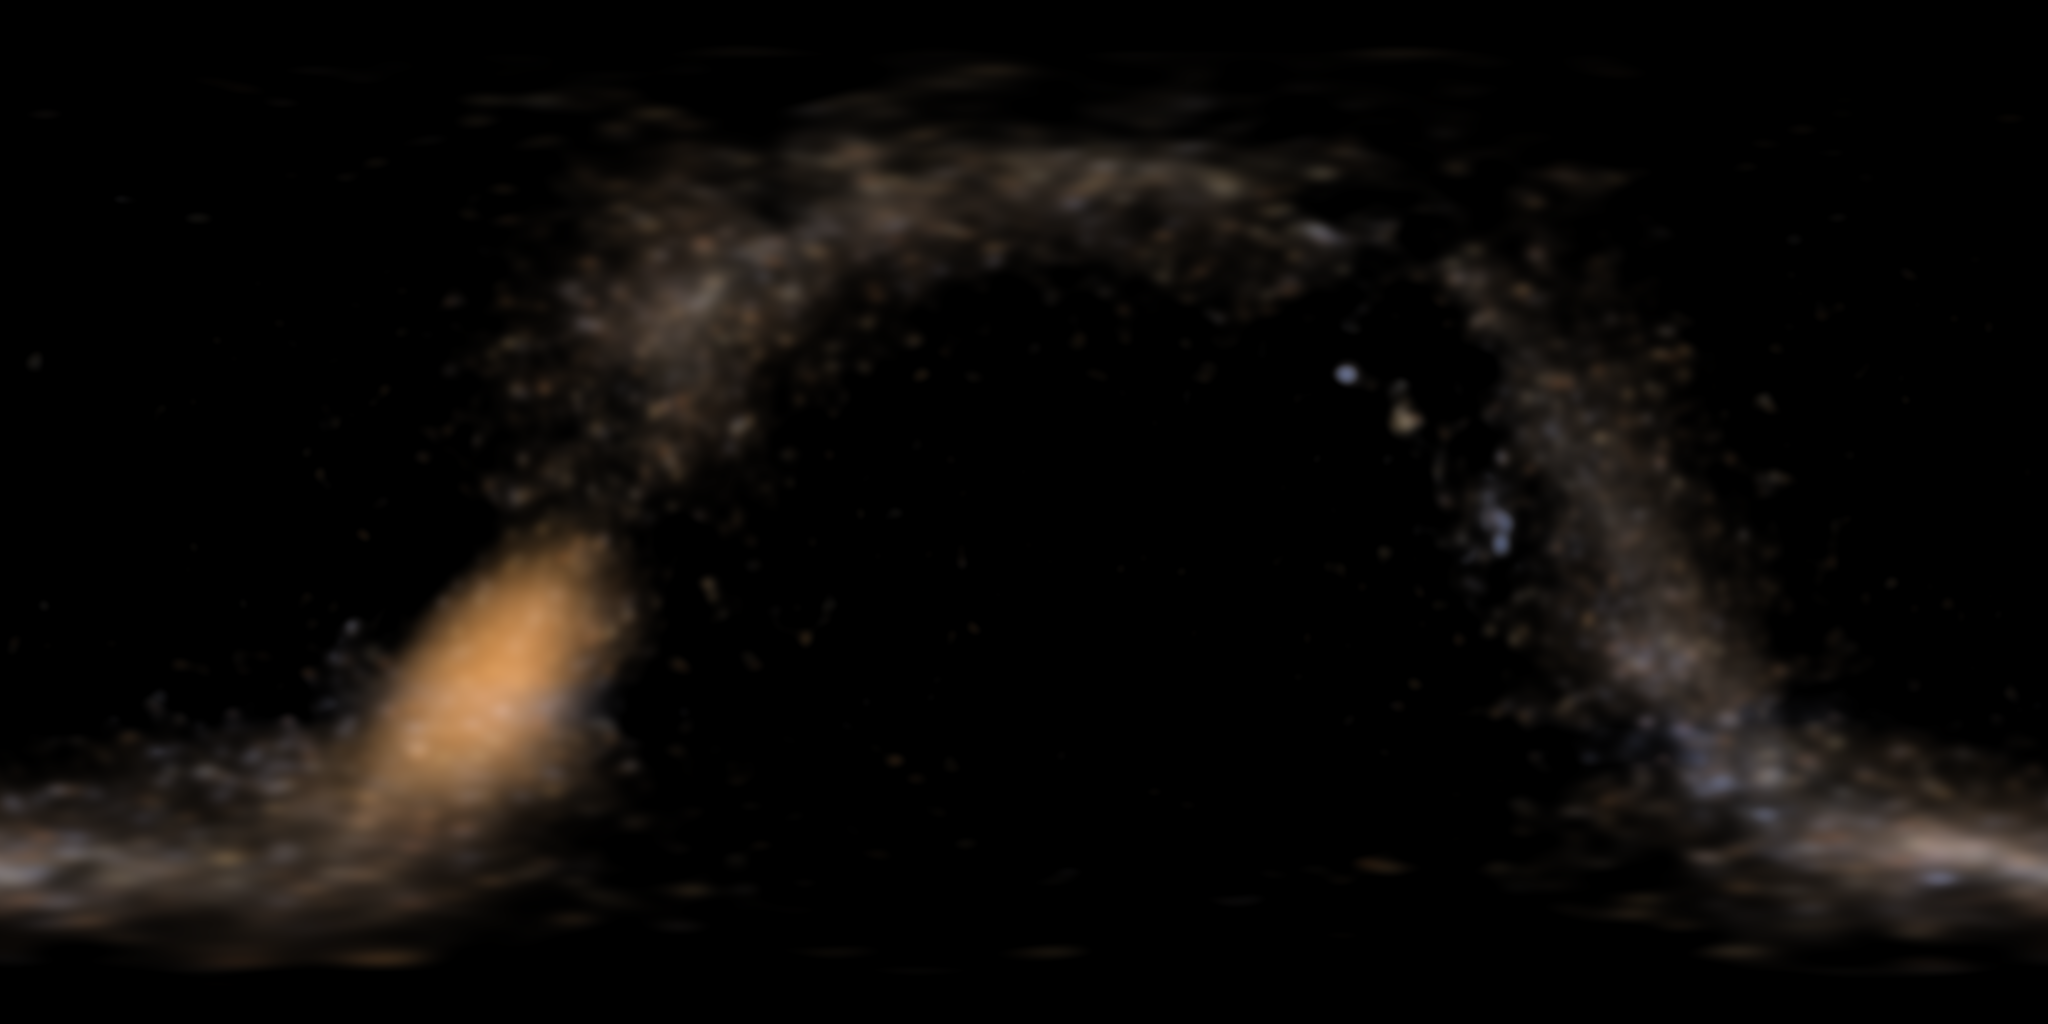
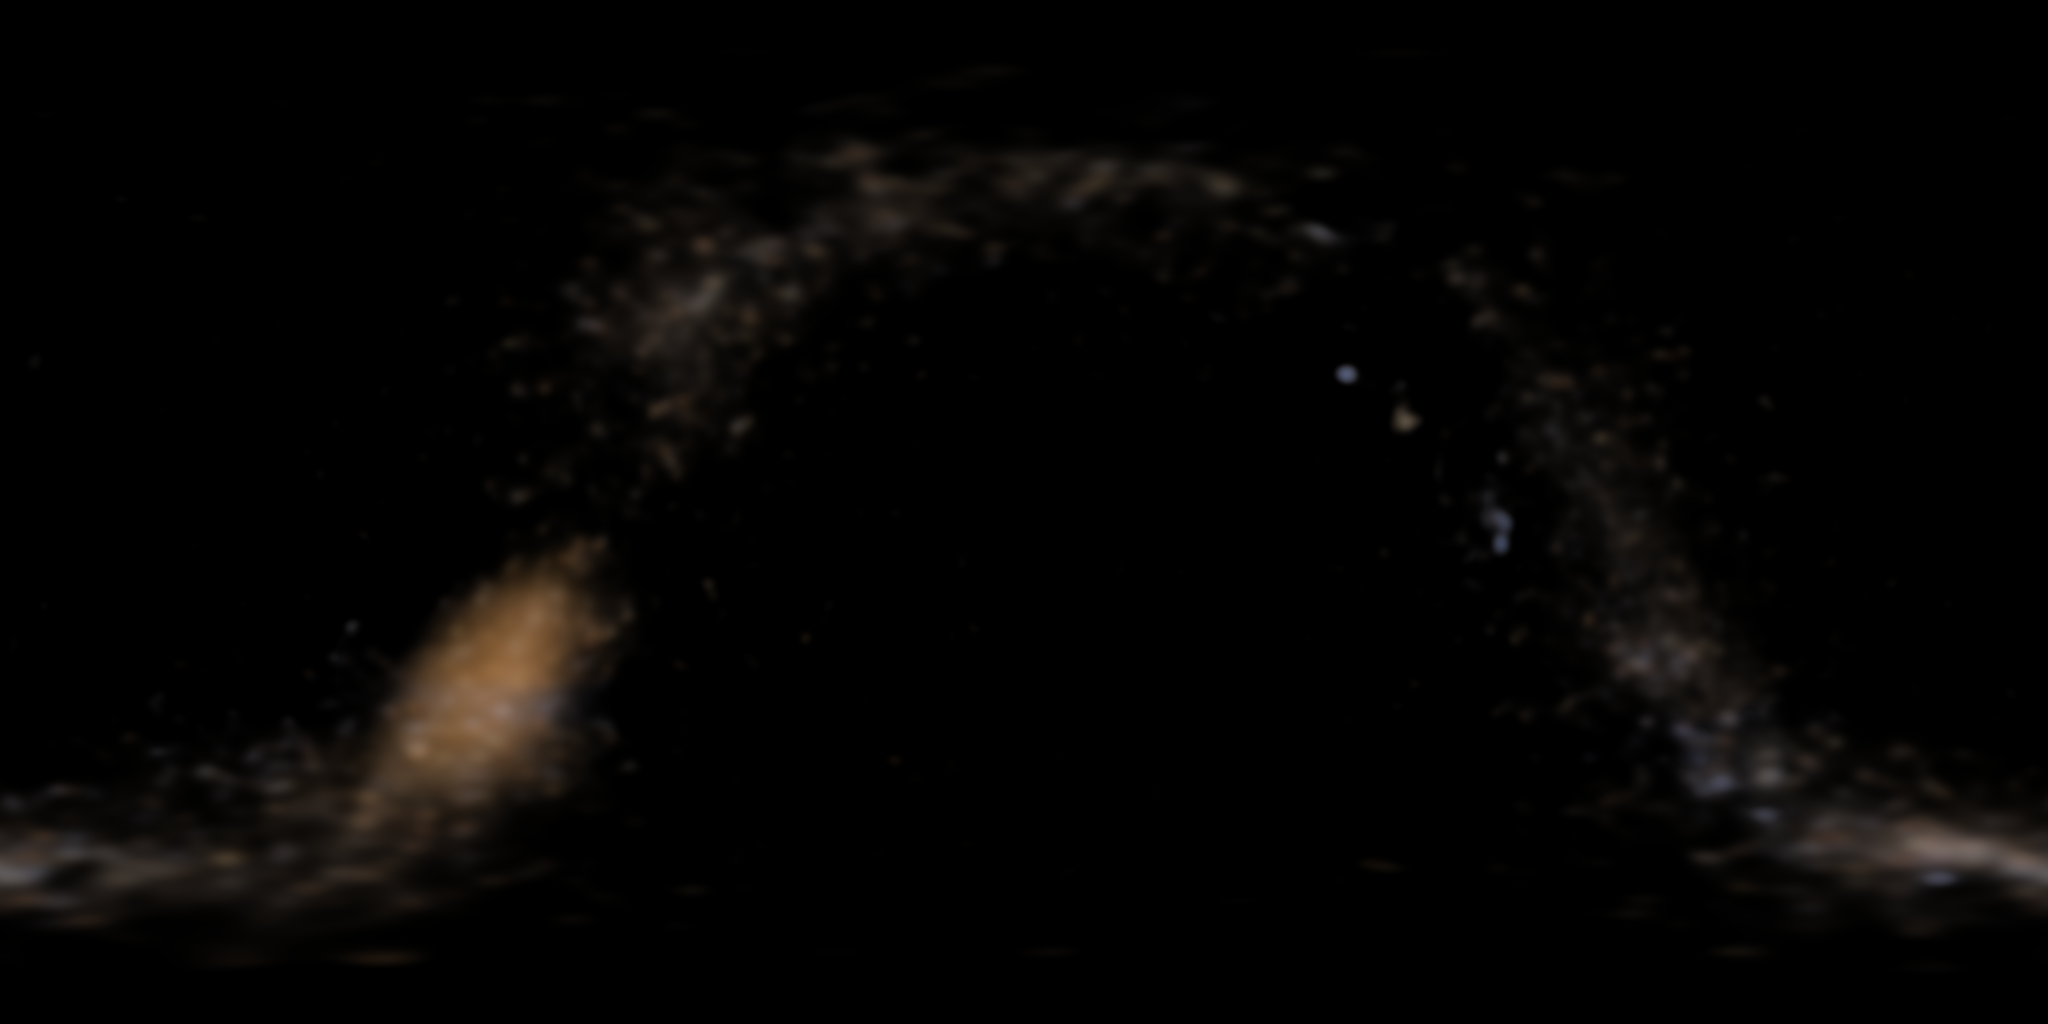
v0.803.0 - glow calibration: the missing gamma + a delicate-veil rebake
Operator, in-game at intensity 1.0 then 0.1: "way too bright - I don't
feel like I'm off world any more."

Root cause found: the glow shader wrote the PNG's display-referred
texels AS IF LINEAR into the sRGB render target, so the hardware
re-applied the display transform - everything brightened massively and
the intensity slider barely seemed to act (0.1 x 0.85 = 0.085 linear
displays as ~33% gray). Fixed: the shader linearizes (pow 2.2) before
scaling, in both galaxy_glow.wgsl and the embedded fallback. A texel
baked at X now displays at X, and the slider is perceptually honest.

The bake itself also carried too much mid-tone energy - retuned for a
real dark-site feel (the reference photo is a long exposure; the sky
should feel like the sky): floor p60 -> p70, gamma 1.25 -> 1.6, halo
mix 0.40 -> 0.22 (the wide blur was the "smoke clouds"), bulge gain
3 -> 2, peak 85% -> 60%. Measured result: 87.9% of texels truly black,
6.7% faint, 5.0% band 10-35%, 0.5% core - peak still 1.02 deg from
Sgr A*.

Space is black again; the galaxy is a veil you notice, not weather.

diff --git a/web/pages/download.html b/web/pages/download.html
@@ -167,7 +167,7 @@
     <div class="dl-hero">
       <h1>Download <em>Humanity</em></h1>
       <p>One download that does everything: the desktop app, the game, and the server are the same program. It keeps itself up to date.</p>
-      <span class="version-badge" id="version-badge">Desktop: v0.802.1 · Web: always latest</span>
+      <span class="version-badge" id="version-badge">Desktop: v0.803.0 · Web: always latest</span>
       <p style="margin-top: 16px; font-size: 0.85rem; color: var(--text-muted); max-width: 640px; margin-left: auto; margin-right: auto;">
         <strong style="color: var(--text);">Recent highlights:</strong>
         fight and loot wild creatures, buy and sell at the trading post and
@@ -183,8 +183,8 @@
       <div class="platform-icon" id="detected-icon"></div>
       <div class="platform-name" id="detected-name">Detecting your device...</div>
       <div class="platform-detail" id="detected-detail"></div>
-      <a href="https://github.com/Shaostoul/Humanity/releases/tag/v0.802.1" class="btn btn-primary" id="detected-download" target="_blank">Download HumanityOS</a>
-      <div class="detected-sub" id="detected-sub">Downloads from GitHub Releases · v0.802.1</div>
+      <a href="https://github.com/Shaostoul/Humanity/releases/tag/v0.803.0" class="btn btn-primary" id="detected-download" target="_blank">Download HumanityOS</a>
+      <div class="detected-sub" id="detected-sub">Downloads from GitHub Releases · v0.803.0</div>
     </div>
 
     <!-- ═══════════════════════════════════════════════════════════════════ -->
@@ -192,7 +192,7 @@
     <!-- ═══════════════════════════════════════════════════════════════════ -->
     <div class="section-label">Modules</div>
     <h2>What's inside</h2>
-    <p class="section-desc">Everything here ships with the app today (v0.802.1). The game is playable now, in early alpha.</p>
+    <p class="section-desc">Everything here ships with the app today (v0.803.0). The game is playable now, in early alpha.</p>
 
     <div class="module-grid">
       <!-- Core modules, ship with the launcher -->
@@ -377,28 +377,28 @@
         <div class="name">Windows</div>
         <div class="arch">x64 · HumanityOS-windows-x64.exe</div>
         <div class="detail">Windows 10 or newer. Download, double-click, done. If Windows shows a blue warning, that is normal (see below).</div>
-        <a href="https://github.com/Shaostoul/Humanity/releases/tag/v0.802.1" class="card-btn" target="_blank">Download</a>
+        <a href="https://github.com/Shaostoul/Humanity/releases/tag/v0.803.0" class="card-btn" target="_blank">Download</a>
       </div>
       <div class="platform-card" id="card-macos-arm">
         <div class="icon ico"><svg viewBox="0 0 48 48" fill="currentColor" stroke="none"><path d="M33.7,6c-2.8,0.2-6.1,2-8,4.3c-1.7,2.1-3.2,5.2-2.6,8.2c3,0.1,6.2-1.7,8-4C32.8,12.4,34.1,9.3,33.7,6z M39.5,17.5c-2.3,1.3-3.8,3.8-3.8,6.5c0,4,3,7.4,6.8,7.4c-0.5,1.7-1.2,3.3-2.2,4.8c-1.5,2.2-3.1,4.4-5.5,4.4c-2.4,0-3.1-1.4-5.8-1.4c-2.7,0-3.5,1.4-5.8,1.5c-2.3,0.1-4.1-2.4-5.6-4.6c-3.1-4.5-5.4-12.6-2.3-18.1c1.6-2.7,4.3-4.5,7.3-4.5c2.3,0,4.4,1.5,5.8,1.5c1.4,0,4-1.9,6.7-1.6C36.5,13.5,38.5,15,39.5,17.5z"/></svg></div>
         <div class="name">macOS (Apple Silicon)</div>
         <div class="arch">ARM64 · HumanityOS-macos-arm64.zip</div>
         <div class="detail">macOS 12 or newer, Apple Silicon (M1 and later). Double-click the download to unpack it, then open HumanityOS.</div>
-        <a href="https://github.com/Shaostoul/Humanity/releases/tag/v0.802.1" class="card-btn" target="_blank">Download</a>
+        <a href="https://github.com/Shaostoul/Humanity/releases/tag/v0.803.0" class="card-btn" target="_blank">Download</a>
       </div>
       <div class="platform-card" id="card-macos-intel">
         <div class="icon ico"><svg viewBox="0 0 48 48" fill="currentColor" stroke="none"><path d="M33.7,6c-2.8,0.2-6.1,2-8,4.3c-1.7,2.1-3.2,5.2-2.6,8.2c3,0.1,6.2-1.7,8-4C32.8,12.4,34.1,9.3,33.7,6z M39.5,17.5c-2.3,1.3-3.8,3.8-3.8,6.5c0,4,3,7.4,6.8,7.4c-0.5,1.7-1.2,3.3-2.2,4.8c-1.5,2.2-3.1,4.4-5.5,4.4c-2.4,0-3.1-1.4-5.8-1.4c-2.7,0-3.5,1.4-5.8,1.5c-2.3,0.1-4.1-2.4-5.6-4.6c-3.1-4.5-5.4-12.6-2.3-18.1c1.6-2.7,4.3-4.5,7.3-4.5c2.3,0,4.4,1.5,5.8,1.5c1.4,0,4-1.9,6.7-1.6C36.5,13.5,38.5,15,39.5,17.5z"/></svg></div>
         <div class="name">macOS (Intel)</div>
         <div class="arch">x64 · HumanityOS-macos-x64.zip</div>
         <div class="detail">macOS 12 or newer, Intel Macs. Double-click the download to unpack it, then open HumanityOS.</div>
-        <a href="https://github.com/Shaostoul/Humanity/releases/tag/v0.802.1" class="card-btn" target="_blank">Download</a>
+        <a href="https://github.com/Shaostoul/Humanity/releases/tag/v0.803.0" class="card-btn" target="_blank">Download</a>
       </div>
       <div class="platform-card" id="card-linux">
         <div class="icon ico"><svg viewBox="0 0 48 48" fill="currentColor" stroke="none"><path d="M24,4c-4.4,0-8,4.5-8,10c0,3,1,5.6,2.5,7.5C16,23.5,12,28,12,33c0,2,0.5,4,2,5.5c-1.5,0.8-2,2-2,3.5c0,1.1,2,2,5,2h14c3,0,5-0.9,5-2c0-1.5-0.5-2.7-2-3.5C35.5,37,36,35,36,33c0-5-4-9.5-6.5-11.5C31,19.6,32,17,32,14C32,8.5,28.4,4,24,4z M21,13a2,2 0 1,1 0,0.1 M27,13a2,2 0 1,1 0,0.1"/></svg></div>
         <div class="name">Linux</div>
         <div class="arch">x64 · HumanityOS-linux-x64.zip</div>
         <div class="detail">Works on any distribution. Right-click the zip, Extract Here, then run the HumanityOS file inside.</div>
-        <a href="https://github.com/Shaostoul/Humanity/releases/tag/v0.802.1" class="card-btn" target="_blank">Download</a>
+        <a href="https://github.com/Shaostoul/Humanity/releases/tag/v0.803.0" class="card-btn" target="_blank">Download</a>
       </div>
       <div class="platform-card" id="card-android">
         <div class="icon ico"><svg viewBox="0 0 48 48" fill="currentColor" stroke="none"><rect x="10" y="20" width="28" height="18" rx="2"/><rect x="12" y="38" width="6" height="6" rx="1"/><rect x="30" y="38" width="6" height="6" rx="1"/><rect x="6" y="22" width="4" height="12" rx="2"/><rect x="38" y="22" width="4" height="12" rx="2"/><path d="M14,20 Q14,12 24,12 Q34,12 34,20 Z"/><circle cx="19" cy="16" r="1.5" fill="var(--bg, #1a1a1a)"/><circle cx="29" cy="16" r="1.5" fill="var(--bg, #1a1a1a)"/><line x1="17" y1="12" x2="14" y2="7" stroke="currentColor" stroke-width="2" stroke-linecap="round"/><line x1="31" y1="12" x2="34" y2="7" stroke="currentColor" stroke-width="2" stroke-linecap="round"/></svg></div>
@@ -554,8 +554,8 @@ cargo build --release --features native</code></pre>
 
       if (['windows', 'macos', 'linux'].includes(os)) {
         btn.textContent = 'Download for ' + names[os];
-        btn.href = 'https://github.com/Shaostoul/Humanity/releases/tag/v0.802.1';
-        sub.textContent = 'Downloads from GitHub Releases · v0.802.1';
+        btn.href = 'https://github.com/Shaostoul/Humanity/releases/tag/v0.803.0';
+        sub.textContent = 'Downloads from GitHub Releases · v0.803.0';
         // Fetch direct download URL from GitHub API so clicks download the file
         fetchDirectDownload(os, arch, btn, sub);
       } else if (['android', 'ios'].includes(os)) {
@@ -618,7 +618,7 @@ cargo build --release --features native</code></pre>
       var sub = document.getElementById('detected-sub');
       if (!btn) return;
 
-      var appVer = window.__HOS_APP_VERSION || '0.802.1';
+      var appVer = window.__HOS_APP_VERSION || '0.803.0';
       btn.textContent = 'Checking for updates...';
       btn.style.opacity = '0.7';
       if (sub) sub.textContent = 'Currently running v' + appVer;

diff --git a/scripts/build-galaxy-glow.js b/scripts/build-galaxy-glow.js
@@ -140,7 +140,9 @@ const CAP_MAG = 4.0;
 // what a glow layer is. The wide pass adds the soft halo around the band.
 const SIGMA_CORE = 6.0;
 const SIGMA_HALO = 18.0;
-const HALO_MIX = 0.40; // out = (1-mix)*core + mix*halo
+// Halo share cut 0.40 -> 0.22 (v0.802.2): the wide pass is what read as
+// "smoke clouds" filling the sky; tighter structure keeps space black.
+const HALO_MIX = 0.22; // out = (1-mix)*core + mix*halo
 // Unresolved-bulge term (pipeline step 5). Gaussian in galactic coordinates:
 // sigma 14 deg along the plane, 7 deg across it (the bright oval in real
 // panoramas is roughly 30 x 15 deg). Peak radiance = BULGE_GAIN x the 99th
@@ -149,7 +151,8 @@ const HALO_MIX = 0.40; // out = (1-mix)*core + mix*halo
 // 1.1, the K-giant gold that dominates the real bulge's visible light.
 const BULGE_SIGMA_L_DEG = 14;
 const BULGE_SIGMA_B_DEG = 7;
-const BULGE_GAIN = 3.0;
+// 3.0 -> 2.0 (v0.802.2): the analytic bulge dominated the frame at 3x.
+const BULGE_GAIN = 2.0;
 const BULGE_CI = 1.1;
 // Tone map (pipeline step 6): baseline = this percentile of nonzero
 // radiance is subtracted first (the isotropic nearby-star glow); the
@@ -161,12 +164,20 @@ const BULGE_CI = 1.1;
 // mottle under ~10%, core at HEADROOM. (The first tuning pass used floor
 // p40 / knee peak/50 / no gamma and the whole sky came out as 30%-gray
 // clouds - as bright as the band itself.)
-const FLOOR_PCT = 0.60;
-const TONE_GAMMA = 1.25;
+// Retuned v0.802.2 after the operator's live report ("way too bright - I
+// don't feel like I'm off world"; even 0.1 intensity read bright, which was
+// mostly the shader's missing linearization, fixed in the same release, but
+// the bake itself also carried too much mid-tone energy). New targets on the
+// diagnostics line: band spine ~20-30% gray, mid-band ~8-15%, off-band under
+// ~4% (truly black sky between the arms), core at HEADROOM. The Milky Way
+// from a real dark site is a DELICATE veil - the reference photo is a long
+// exposure; the game should feel like the sky, not the photo's exposure.
+const FLOOR_PCT = 0.70;
+const TONE_GAMMA = 1.6;
 const KNEE_DIV = 12;
 // Peak output level at intensity 1.0 - headroom baked into the PNG so the
 // core does not clip and the 0..2 intensity slider has room to push.
-const HEADROOM = 0.85;
+const HEADROOM = 0.6;
 // Self-verify tolerance (degrees) between the smoothed peak and Sgr A*.
 const PEAK_TOL_DEG = 10;
 

diff --git a/web/pages/ops.html b/web/pages/ops.html
@@ -240,7 +240,7 @@
 (function() {
   // Populate system info
   const el = id => document.getElementById(id);
-  if (el('debug-version')) el('debug-version').textContent = 'v0.802.1';
+  if (el('debug-version')) el('debug-version').textContent = 'v0.803.0';
   if (el('debug-server'))  el('debug-server').textContent  = window.location.origin;
   if (el('debug-ua'))      el('debug-ua').textContent      = navigator.userAgent.slice(0, 120);
   if (el('debug-screen'))  el('debug-screen').textContent  = screen.width + '×' + screen.height + ' · ' + (window.devicePixelRatio||1) + 'x DPR';

diff --git a/web/pages/settings-app.js b/web/pages/settings-app.js
@@ -738,7 +738,7 @@ savePref = function() { _origSavePref(); updateRangeLabels(); };
 // Version tag
 try {
   const vEl = document.getElementById('version-tag');
-  if (vEl) vEl.textContent = 'HumanityOS, v0.802.1 · ' + new Date().getFullYear();
+  if (vEl) vEl.textContent = 'HumanityOS, v0.803.0 · ' + new Date().getFullYear();
 } catch(e) {}
 
 // Inject hosIcon SVGs into action bar buttons

diff --git a/web/shared/shell.js b/web/shared/shell.js
@@ -1360,7 +1360,7 @@
   // WHY: Light up the download button with RGB when a new version is available
   // so the user knows at a glance. Checks GitHub releases once per session.
   (function updateChecker() {
-    var CURRENT_VERSION = '0.802.1';
+    var CURRENT_VERSION = '0.803.0';
     var CACHE_KEY = 'hos_latest_version';
     var CACHE_TS_KEY = 'hos_latest_version_ts';
     var CHECK_INTERVAL = 30 * 60 * 1000; // 30 min

diff --git a/web/shared/sw.js b/web/shared/sw.js
@@ -1,6 +1,6 @@
 // Bump version whenever cached assets change.
 // HTML pages are intentionally NEVER cached (they change every deploy).
-const CACHE_NAME = 'humanity-v1370';
+const CACHE_NAME = 'humanity-v1371';
 const SHELL_URLS = [
   '/shared/shell.js',
   '/shared/theme.css',

diff --git a/src/renderer/stars.rs b/src/renderer/stars.rs
@@ -789,7 +789,10 @@ fn fs_main(input: GlowOutput) -> @location(0) vec4<f32> {
     let u = atan2(d.y, d.x) / 6.28318530717958647692 + 0.5;
     let v = acos(clamp(d.z, -1.0, 1.0)) / 3.14159265358979323846;
     let c = textureSample(glow_tex, glow_samp, vec2<f32>(u, v)).rgb;
-    return vec4<f32>(c * glow_params.x, 1.0);
+    // Linearize display-referred texels before the sRGB target re-encodes
+    // (v0.802.2) - keep in sync with assets/shaders/galaxy_glow.wgsl.
+    let lin = pow(c, vec3<f32>(2.2, 2.2, 2.2));
+    return vec4<f32>(lin * glow_params.x, 1.0);
 }
 "#;
 